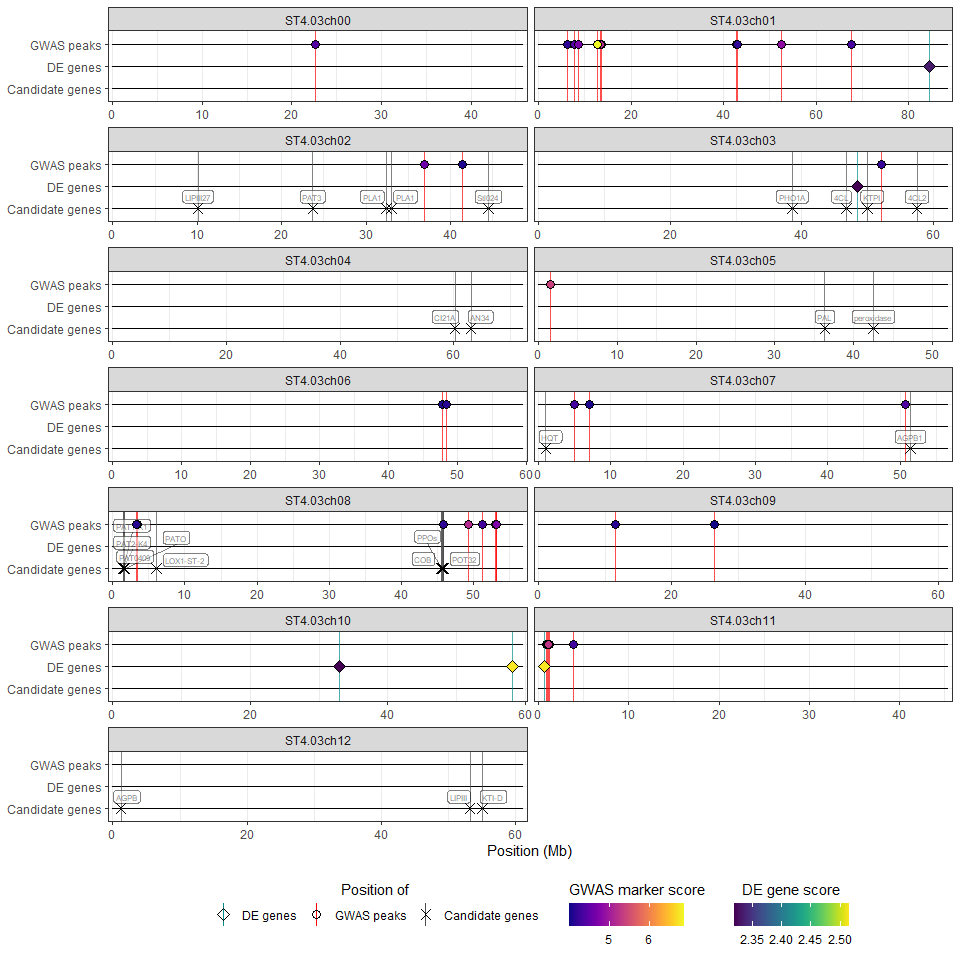
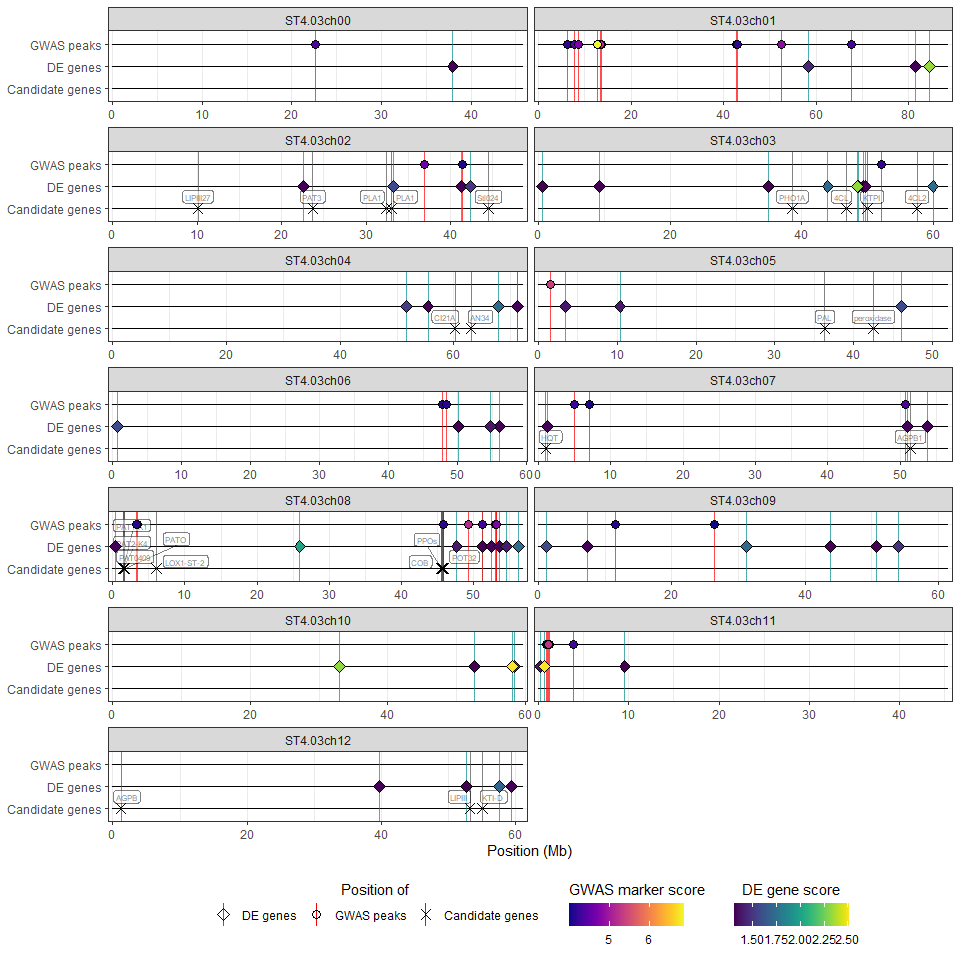
Finished drafting main vignette

diff --git a/README.md b/README.md
@@ -30,12 +30,12 @@ The hidecan package works as follows:
   interest;
 
 - it computes the length of each chromosome based on the genomic
-  position of the markers or genes provided in the input data;
+  position of the markers and genes provided in the input data;
 
 - it filters the datasets to retain significant markers or
   differentially expressed genes, according to a threshold on their
-  score or log2-fold change. The fold-change is set by the user, and can
-  be different for GWAS and differential expression results.
+  score and/or log2-fold change. The fold-change is set by the user, and
+  can be different for GWAS and differential expression results.
 
 - it displays the position of the significant markers and genes
   alongside candidate genes (HIDECAN plot). The plot can be customised
@@ -52,11 +52,11 @@ library(hidecan)
 x <- get_example_data()
 
 hidecan_plot(
-  gwas_list = x[["GWAS"]],          ## list of GWAS results
-  de_list = x[["DE"]],              ## list of DE results
-  can_list = x[["CAN"]],            ## list of candidate genes
+  gwas_list = x[["GWAS"]],          ## data-frame of GWAS results
+  de_list = x[["DE"]],              ## data-frame of DE results
+  can_list = x[["CAN"]],            ## data-frame of candidate genes
   score_thr_gwas = -log10(0.0001),  ## sign. threshold for GWAS
-  score_thr_de = -log10(0.005),     ## sign. threshold for DE
+  score_thr_de = -log10(0.05),      ## sign. threshold for DE
   log2fc_thr = 0,                   ## log2FC threshold for DE
   label_size = 2                    ## label size for candidate genes
 )
